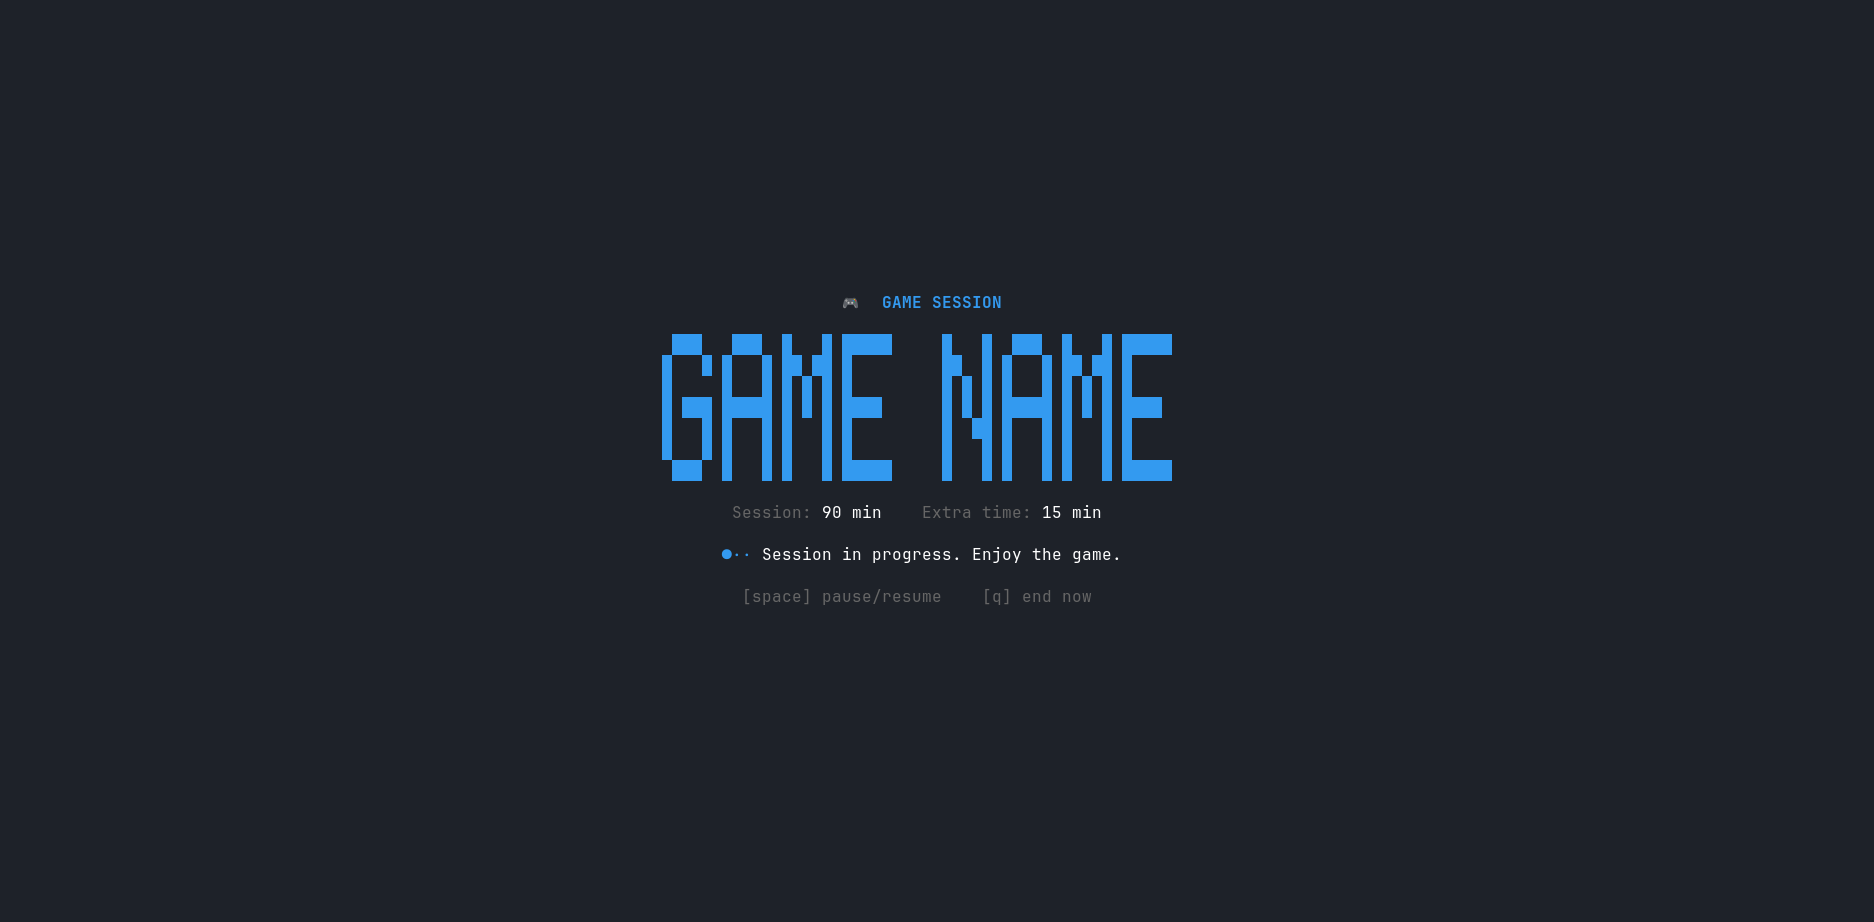
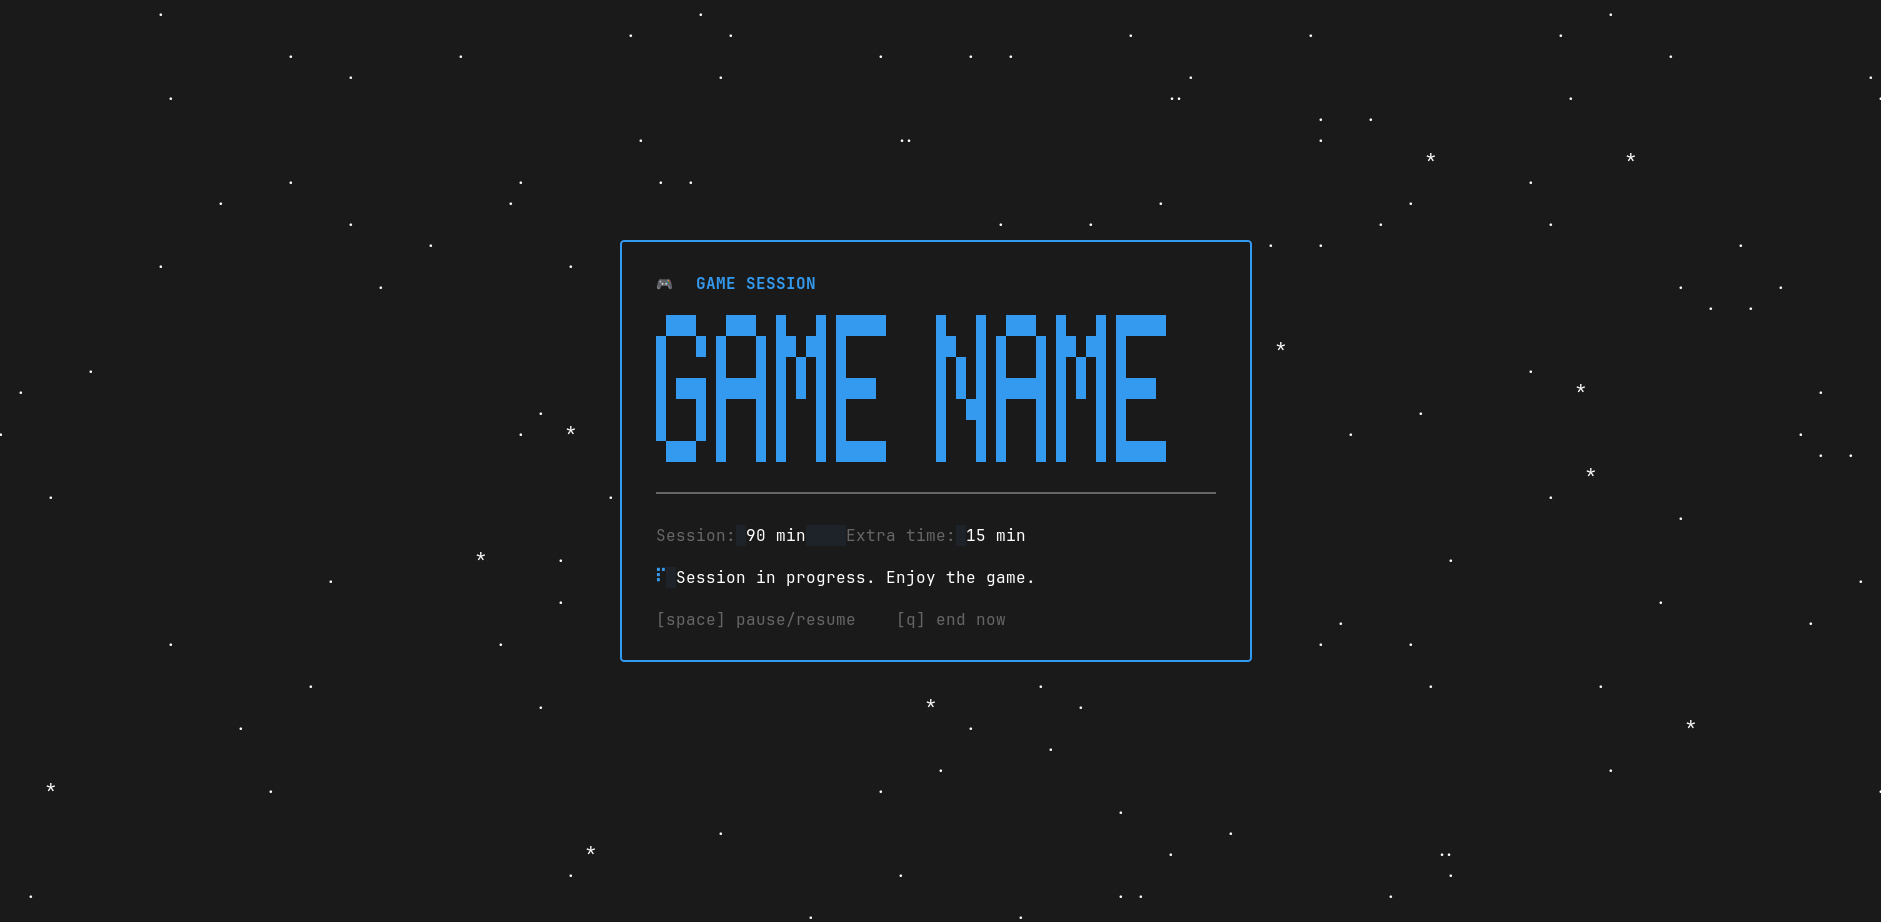
Frame the TUI with a starfield, fix XDG dir, add --version
- Wrap every phase screen in a rounded border colored per phase, with a
  divider between the banner and the details, matching the theme.
- Scatter a random starfield of white dots (and much rarer asterisks)
  in the space around the framed box instead of a flat background fill.
- Add a progress bar to the extra-time phase and a receipt-style aligned
  summary on the final screen.
- Switch the spinner to MiniDot.
- Fix the XDG config/data dir to be "gametimer" instead of
  "github.com/beckmorr/gametimer".
- Add "gametimer --version", set via -ldflags at build time.

Changed region(s): [[0.3404, 0.3037, 0.6499, 0.6985], [0.4952, 0.6681, 0.5261, 0.6985]]

diff --git a/internal/tui/view.go b/internal/tui/view.go
@@ -2,14 +2,18 @@ package tui
 
 import (
 	"fmt"
+	"math/rand"
 	"strings"
+	"time"
 
 	"github.com/charmbracelet/lipgloss"
 
 	"github.com/beckmorr/gametimer/internal/session"
 )
 
-const bannerMargin = 10
+// bannerMargin reserves room for the box border, its padding, and a small
+// safety buffer so the framed content never exceeds the terminal width.
+const bannerMargin = 20
 
 func (m Model) View() string {
 	var content string
@@ -22,13 +26,85 @@ func (m Model) View() string {
 		content = m.viewDone()
 	}
 
-	bg := lipgloss.Color(m.th.Background)
-	content = lipgloss.NewStyle().Background(bg).Width(lipgloss.Width(content)).Align(lipgloss.Center).Render(content)
-
 	if m.width > 0 && m.height > 0 {
-		return lipgloss.Place(m.width, m.height, lipgloss.Center, lipgloss.Center, content, lipgloss.WithWhitespaceBackground(bg))
+		return m.placeWithStars(content)
 	}
 	return content
+}
+
+// placeWithStars centers box on the terminal and, instead of a flat
+// background fill, scatters a sparse random field of white dots across the
+// space around it. rng is re-seeded from m.starSeed on every call so the
+// same dots stay put across renders rather than jittering every tick.
+func (m Model) placeWithStars(box string) string {
+	bg := lipgloss.Color(m.th.Background)
+	starStyle := lipgloss.NewStyle().Foreground(lipgloss.Color("#FFFFFF")).Background(bg)
+	bgStyle := lipgloss.NewStyle().Background(bg)
+
+	lines := strings.Split(box, "\n")
+	boxH := len(lines)
+	boxW := 0
+	for _, l := range lines {
+		if w := lipgloss.Width(l); w > boxW {
+			boxW = w
+		}
+	}
+
+	top := (m.height - boxH) / 2
+	left := (m.width - boxW) / 2
+	if top < 0 {
+		top = 0
+	}
+	if left < 0 {
+		left = 0
+	}
+	right := m.width - left - boxW
+	if right < 0 {
+		right = 0
+	}
+
+	rng := rand.New(rand.NewSource(m.starSeed))
+
+	rows := make([]string, m.height)
+	for y := 0; y < m.height; y++ {
+		if y >= top && y < top+boxH {
+			rows[y] = starRow(rng, starStyle, bgStyle, left) + lines[y-top] + starRow(rng, starStyle, bgStyle, right)
+		} else {
+			rows[y] = starRow(rng, starStyle, bgStyle, m.width)
+		}
+	}
+	return strings.Join(rows, "\n")
+}
+
+// starRow renders width background cells with an occasional white "."
+// sprinkled in (roughly one every 60 cells) and a much rarer white "*"
+// (roughly one every 1200 cells, twenty times scarcer than the dots).
+func starRow(rng *rand.Rand, starStyle, bgStyle lipgloss.Style, width int) string {
+	if width <= 0 {
+		return ""
+	}
+	var b strings.Builder
+	run := 0
+	flush := func() {
+		if run > 0 {
+			b.WriteString(bgStyle.Render(strings.Repeat(" ", run)))
+			run = 0
+		}
+	}
+	for i := 0; i < width; i++ {
+		switch n := rng.Intn(1200); {
+		case n == 0:
+			flush()
+			b.WriteString(starStyle.Render("*"))
+		case n < 21:
+			flush()
+			b.WriteString(starStyle.Render("."))
+		default:
+			run++
+		}
+	}
+	flush()
+	return b.String()
 }
 
 func (m Model) bannerWidth() int {
@@ -38,8 +114,64 @@ func (m Model) bannerWidth() int {
 	return m.width - bannerMargin
 }
 
+// contentWidth is the width used for the divider and progress bar: capped
+// well below the banner width so the box stays a comfortable size even on
+// wide terminals.
+func (m Model) contentWidth() int {
+	const max = 56
+	if bw := m.bannerWidth(); bw > 0 && bw < max {
+		return bw
+	}
+	return max
+}
+
+// box frames body in a rounded border colored for the current phase, giving
+// the whole screen a "card" look instead of loose centered text.
+func (m Model) box(hex, body string) string {
+	bg := lipgloss.Color(m.th.Background)
+	return lipgloss.NewStyle().
+		Border(lipgloss.RoundedBorder()).
+		BorderForeground(lipgloss.Color(hex)).
+		BorderBackground(bg).
+		Background(bg).
+		Padding(1, 3).
+		Render(body)
+}
+
 func eyebrow(hex, bg, text string) string {
 	return lipgloss.NewStyle().Bold(true).Foreground(lipgloss.Color(hex)).Background(lipgloss.Color(bg)).Render(text)
+}
+
+func divider(hex, bg string, width int) string {
+	if width <= 0 {
+		width = 40
+	}
+	return lipgloss.NewStyle().Foreground(lipgloss.Color(hex)).Background(lipgloss.Color(bg)).Render(strings.Repeat("─", width))
+}
+
+// progressBar renders a filled/empty block bar for frac (0..1).
+func progressBar(fillHex, emptyHex, bg string, width int, frac float64) string {
+	if width <= 0 {
+		width = 30
+	}
+	if frac < 0 {
+		frac = 0
+	} else if frac > 1 {
+		frac = 1
+	}
+	filled := int(float64(width)*frac + 0.5)
+	if filled > width {
+		filled = width
+	}
+	fillStyle := lipgloss.NewStyle().Foreground(lipgloss.Color(fillHex)).Background(lipgloss.Color(bg))
+	emptyStyle := lipgloss.NewStyle().Foreground(lipgloss.Color(emptyHex)).Background(lipgloss.Color(bg))
+	return fillStyle.Render(strings.Repeat("█", filled)) + emptyStyle.Render(strings.Repeat("░", width-filled))
+}
+
+// kv renders a "label   value" line with the label padded to a fixed column
+// so consecutive kv lines line up like a small receipt.
+func kv(labelStyle, valueStyle lipgloss.Style, label, value string) string {
+	return labelStyle.Render(fmt.Sprintf("%-14s", label)) + valueStyle.Render(value)
 }
 
 func (m Model) viewSession() string {
@@ -47,6 +179,7 @@ func (m Model) viewSession() string {
 	text := lipgloss.NewStyle().Foreground(lipgloss.Color(m.th.Text)).Background(lipgloss.Color(m.th.Background))
 
 	banner := bigTitle(m.game.Name, m.th.Session, m.th.Background, m.bannerWidth())
+	div := divider(m.th.Muted, m.th.Background, m.contentWidth())
 
 	info := fmt.Sprintf(
 		"%s %s    %s %s",
@@ -63,10 +196,12 @@ func (m Model) viewSession() string {
 
 	help := muted.Render("[space] pause/resume    [q] end now")
 
-	return strings.Join([]string{
+	body := strings.Join([]string{
 		eyebrow(m.th.Session, m.th.Background, "🎮  GAME SESSION"),
 		"",
 		banner,
+		"",
+		div,
 		"",
 		info,
 		"",
@@ -74,6 +209,7 @@ func (m Model) viewSession() string {
 		"",
 		help,
 	}, "\n")
+	return m.box(m.th.Session, body)
 }
 
 func (m Model) viewExtra() string {
@@ -82,6 +218,14 @@ func (m Model) viewExtra() string {
 	warn := lipgloss.NewStyle().Bold(true).Foreground(lipgloss.Color(m.th.Warning)).Background(lipgloss.Color(m.th.Background))
 
 	banner := bigTitle(m.game.Name, m.th.Warning, m.th.Background, m.bannerWidth())
+	div := divider(m.th.Muted, m.th.Background, m.contentWidth())
+
+	total := time.Duration(m.game.ExtraMin) * time.Minute
+	var frac float64
+	if total > 0 {
+		frac = 1 - m.extraRemaining.Seconds()/total.Seconds()
+	}
+	bar := progressBar(m.th.Warning, m.th.Muted, m.th.Background, m.contentWidth(), frac)
 
 	var clock string
 	if m.paused {
@@ -93,17 +237,21 @@ func (m Model) viewExtra() string {
 	msg := text.Render("Save your progress now! The game will close automatically.")
 	help := muted.Render("[space] pause/resume    [q] end now")
 
-	return strings.Join([]string{
+	body := strings.Join([]string{
 		eyebrow(m.th.Warning, m.th.Background, "⚠  TIME TO SAVE"),
 		"",
 		banner,
 		"",
+		div,
+		"",
 		clock,
+		bar,
 		"",
 		msg,
 		"",
 		help,
 	}, "\n")
+	return m.box(m.th.Warning, body)
 }
 
 func (m Model) viewDone() string {
@@ -121,7 +269,9 @@ func (m Model) viewDone() string {
 	}
 
 	banner := bigTitle(m.game.Name, color, m.th.Background, m.bannerWidth())
-	played := text.Render("Time played: " + formatPlayed(m.playedSeconds2Minutes()))
+	div := divider(m.th.Muted, m.th.Background, m.contentWidth())
+
+	played := kv(muted, text, "Time played:", formatPlayed(m.playedSeconds2Minutes()))
 	msg := text.Render(m.finalMsg)
 
 	logLine := muted.Render("Log saved to " + m.logPath)
@@ -131,10 +281,12 @@ func (m Model) viewDone() string {
 
 	help := muted.Render("[q] quit")
 
-	return strings.Join([]string{
+	body := strings.Join([]string{
 		eyebrow(color, m.th.Background, label),
 		"",
 		banner,
+		"",
+		div,
 		"",
 		played,
 		msg,
@@ -143,6 +295,7 @@ func (m Model) viewDone() string {
 		"",
 		help,
 	}, "\n")
+	return m.box(color, body)
 }
 
 func (m Model) playedSeconds2Minutes() float64 {

diff --git a/internal/tui/model.go b/internal/tui/model.go
@@ -2,6 +2,7 @@ package tui
 
 import (
 	"fmt"
+	"math/rand"
 	"time"
 
 	"github.com/charmbracelet/bubbles/spinner"
@@ -39,6 +40,11 @@ type Model struct {
 	phase  phase
 	paused bool
 
+	// starSeed fixes the random starfield drawn around the box: generated
+	// once so the dots stay put across renders instead of jittering every
+	// tick.
+	starSeed int64
+
 	sessionRemaining time.Duration
 	extraRemaining   time.Duration
 	playedSeconds    int
@@ -52,7 +58,7 @@ type Model struct {
 
 func New(game config.Game, th theme.Theme) Model {
 	sp := spinner.New()
-	sp.Spinner = spinner.Points
+	sp.Spinner = spinner.MiniDot
 	sp.Style = lipgloss.NewStyle().Foreground(lipgloss.Color(th.Session)).Background(lipgloss.Color(th.Background))
 	logPath, _ := config.LogPath()
 	return Model{
@@ -60,6 +66,7 @@ func New(game config.Game, th theme.Theme) Model {
 		th:               th,
 		spin:             sp,
 		phase:            phaseSession,
+		starSeed:         rand.Int63(),
 		sessionRemaining: time.Duration(game.SessionMin) * time.Minute,
 		startedAt:        time.Now(),
 		logPath:          logPath,

diff --git a/cmd/root.go b/cmd/root.go
@@ -7,9 +7,15 @@ import (
 	"github.com/spf13/cobra"
 )
 
+// version is set at build time via:
+//
+//	go build -ldflags "-X github.com/beckmorr/gametimer/cmd.version=v1.2.3"
+var version = "dev"
+
 var rootCmd = &cobra.Command{
-	Use:   "gametimer",
-	Short: "Game session timer with a TUI",
+	Use:     "gametimer",
+	Version: version,
+	Short:   "Game session timer with a TUI",
 	Long: `gametimer times your game session in a full-screen TUI.
 
 It warns you when the session ends and, if you give it the game's process

diff --git a/internal/config/config.go b/internal/config/config.go
@@ -8,7 +8,7 @@ import (
 )
 
 const (
-	appDirName   = "github.com/beckmorr/gametimer"
+	appDirName   = "gametimer"
 	configFile   = "config.json"
 	gamesFile    = "games.json"
 	defaultTheme = "default"

diff --git a/README.md b/README.md
@@ -45,6 +45,12 @@ cd gametimer
 go build -o gametimer .
 ```
 
+To have `gametimer --version` report something other than `dev`, inject the version at build time:
+
+```bash
+go build -ldflags "-X github.com/beckmorr/gametimer/cmd.version=$(git describe --tags)" -o gametimer .
+```
+
 ## Quick usage
 
 ```bash
@@ -69,6 +75,10 @@ Without `--process`, the session ends with a warning and there's no auto-close, 
 | `enter` / `q` (on the final screen) | quit the TUI |
 
 ## Commands
+
+### `gametimer --version`
+
+Prints the installed version.
 
 ### `gametimer start <game>`
 
